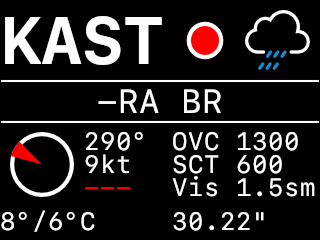
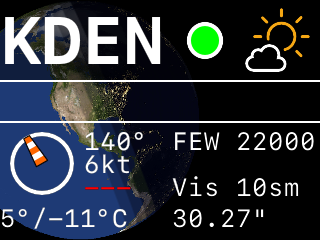
Updated documentation.

diff --git a/README.md b/README.md
@@ -97,6 +97,14 @@ and Astronomical Twilight.
     # Change daylight to Nautical Twilight
     daylight=nautical;
 
+The `drawglobe` option enables the display of a day/night rendering of Earth
+that centers on the currently displayed station and depicts the Civil, Nautical,
+and Astronomical twilight bands. The globe displays by default, but can be
+disabled by setting `drawglobe` to `off`.
+
+    # Disable day/night globe
+    drawglobe=off;
+
 Flight category colors, both LED and weather display, are currently fixed to
 the US National Weather Service colors: Green (VFR), Blue (Marginal VFR),
 Red (IFR), and Purple (Low IFR). The `highwindspeed` option may be used to
